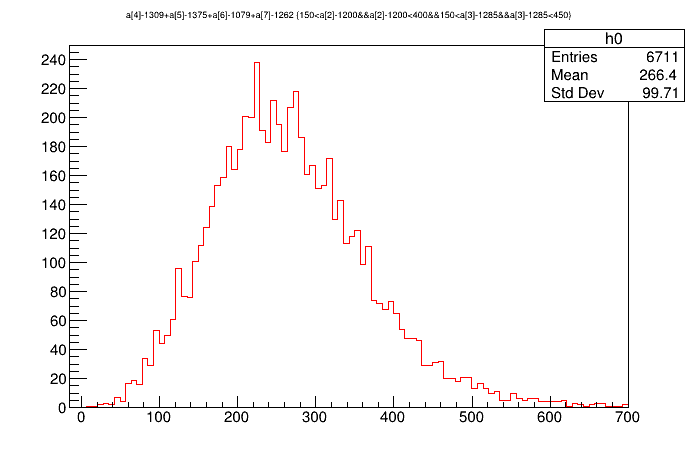
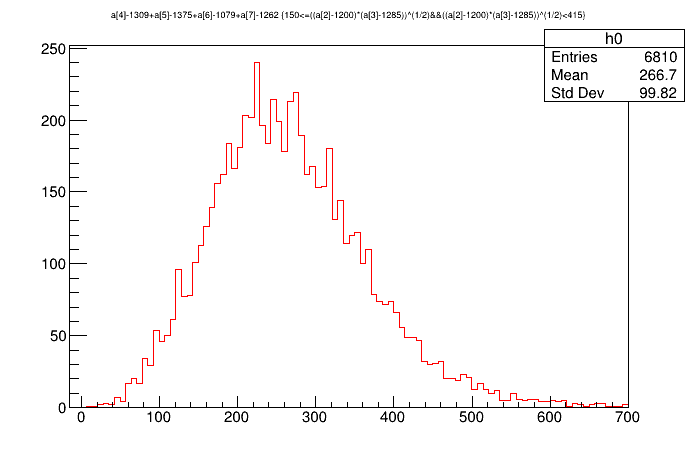
update

diff --git a/script/script_spr/spr015.C b/script/script_spr/spr015.C
@@ -56,10 +56,10 @@
 
     // T->Draw("a[6]-1079>>h0(100,-15,400)","150<=((a[2]-1200)*(a[3]-1285))^(1/2)&&((a[2]-1200)*(a[3]-1285))^(1/2)<415&&a[6]-1079>8.52");
 
-    T->Draw("a[7]-1262>>h0(100,-15,400)","150<=((a[2]-1200)*(a[3]-1285))^(1/2)&&((a[2]-1200)*(a[3]-1285))^(1/2)<415&&a[7]-1262>4.71");
+    // T->Draw("a[7]-1262>>h0(100,-15,400)","150<=((a[2]-1200)*(a[3]-1285))^(1/2)&&((a[2]-1200)*(a[3]-1285))^(1/2)<415&&a[7]-1262>4.71");
 
     //合計
-    // T->Draw("a[4]-1309+a[5]-1375+a[6]-1079+a[7]-1262>>h0(100,-15,700)","150<a[2]-1200&&a[2]-1200<400&&150<a[3]-1285&&a[3]-1285<450");
+    T->Draw("a[4]-1309+a[5]-1375+a[6]-1079+a[7]-1262>>h0(100,-15,700)","150<=((a[2]-1200)*(a[3]-1285))^(1/2)&&((a[2]-1200)*(a[3]-1285))^(1/2)<415");
 
     // h0->Scale(h0->GetEntries()/h1->GetEntries());   
 
@@ -89,14 +89,14 @@
 
     
     // ヒストグラムの統計情報を取得して描画
-    TPaveText *stats_h1 = new TPaveText(0.8, 0.6, 0.98, 0.75, "NDC");
-    stats_h1->SetTextSize(0.03);
-    stats_h1->AddText("h1");
-    stats_h1->AddText(Form("Entries: %.0f", h1->GetEntries()));
-    stats_h1->AddText(Form("Mean: %.2f", h1->GetMean()));
-    stats_h1->AddText(Form("Std Dev: %.2f", h1->GetStdDev()));
-    stats_h1->SetFillColor(0);
-    stats_h1->Draw();
+    // TPaveText *stats_h1 = new TPaveText(0.8, 0.6, 0.98, 0.75, "NDC");
+    // stats_h1->SetTextSize(0.03);
+    // stats_h1->AddText("h1");
+    // stats_h1->AddText(Form("Entries: %.0f", h1->GetEntries()));
+    // stats_h1->AddText(Form("Mean: %.2f", h1->GetMean()));
+    // stats_h1->AddText(Form("Std Dev: %.2f", h1->GetStdDev()));
+    // stats_h1->SetFillColor(0);
+    // stats_h1->Draw();
 
 
     // c1->SetLogy();
@@ -106,7 +106,7 @@
 //     c1->Print("C:/Users/posei/Desktop/tokken/winscp/data_test/output/hal008_009_a[3].pdf");
     // c1->Print("C:/Users/niiyama/Desktop/Kyotaro_Nishi/root/root_analysis/output/output_don/don025(red)-033(blue)-036(green)-039(black)-030(pink)_a[0].png");
     // c1->Print("C:/Users/niiyama/Desktop/Kyotaro_Nishi/root/root_analysis/output/output_don/don060(red)-053(blue)-054(green)-055(black)_a[0].png");
-    // c1->Print("C:/Users/niiyama/Desktop/Kyotaro_Nishi/root/root_analysis/output/output_spr/spr015_a[7]_separated.png");
+    // c1->Print("C:/Users/niiyama/Desktop/Kyotaro_Nishi/root/root_analysis/output/output_spr/spr015_total.png");
 }
 
 #include <TF1.h>
